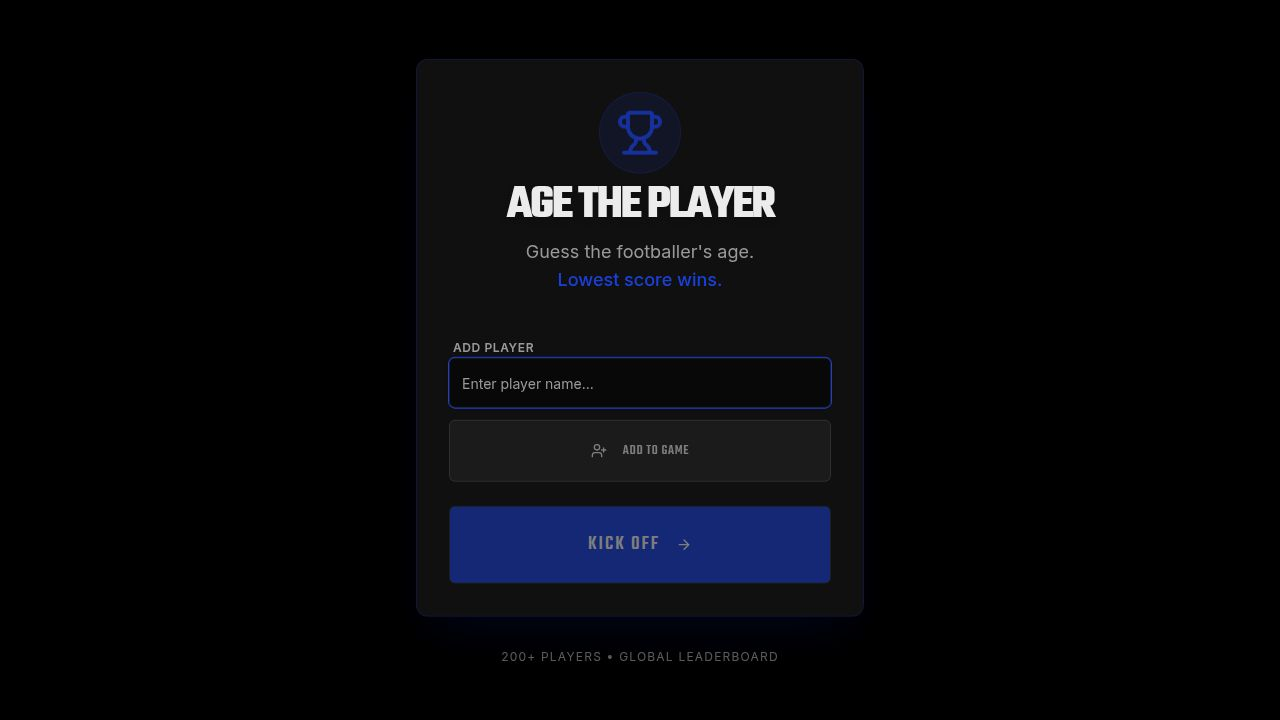
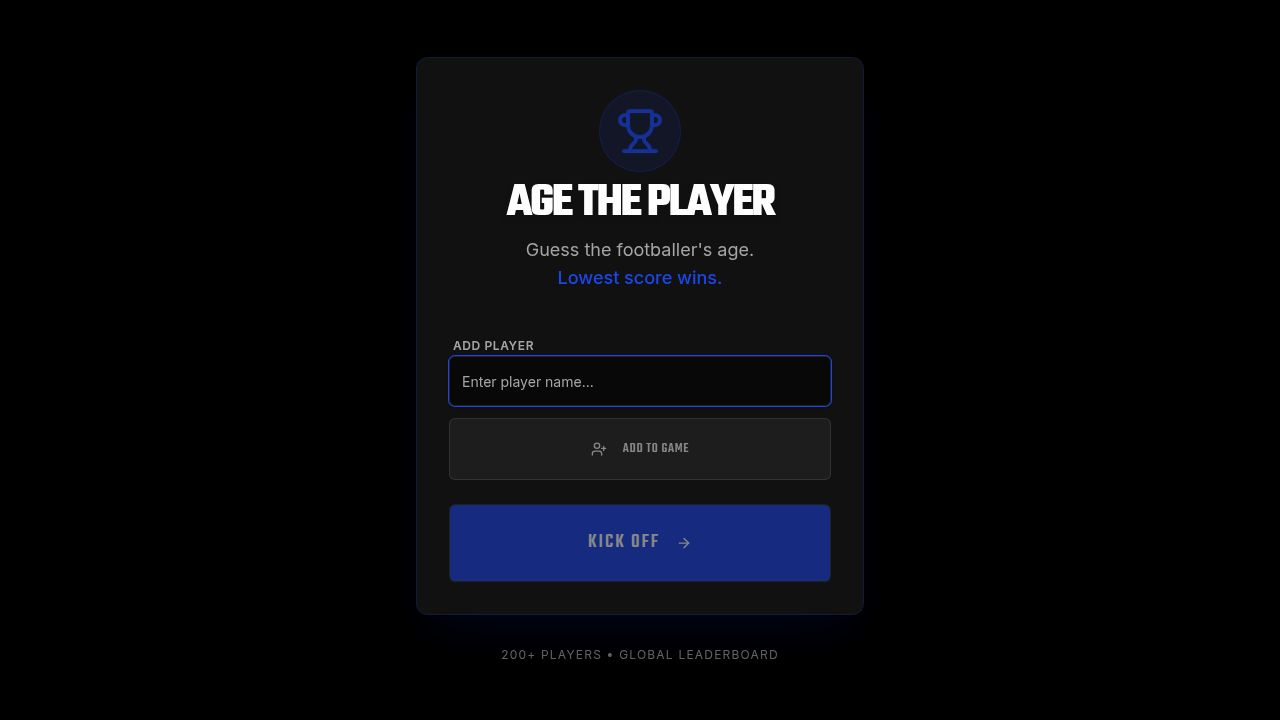
Add quit button, clearer age display, and customizable round selection
Introduce a quit game confirmation modal on the game page and a slider for selecting 1-20 rounds on the home page, while also making the player's actual age more prominent after a guess.

Replit-Commit-Author: Agent
Replit-Commit-Session-Id: cb760f80-8cc4-4e97-91f6-dfe871bbc707
Replit-Commit-Checkpoint-Type: intermediate_checkpoint
Replit-Commit-Event-Id: 43978ad2-92a8-425f-8d2d-94fce74c841e
Replit-Commit-Screenshot-Url: https://storage.googleapis.com/screenshot-production-us-central1/81660c9f-fc11-42ce-8547-a7fb2e67eec6/cb760f80-8cc4-4e97-91f6-dfe871bbc707/nGc5fzC
Replit-Helium-Checkpoint-Created: true

diff --git a/client/src/pages/game.tsx b/client/src/pages/game.tsx
@@ -4,7 +4,7 @@ import { useGameStore } from '@/lib/store';
 import { Button } from '@/components/ui/button';
 import { Slider } from '@/components/ui/slider';
 import { Progress } from '@/components/ui/progress';
-import { CheckCircle2, AlertCircle, ArrowRight, User } from 'lucide-react';
+import { CheckCircle2, AlertCircle, ArrowRight, User, X } from 'lucide-react';
 import { motion, AnimatePresence } from 'framer-motion';
 import confetti from 'canvas-confetti';
 import { triggerHaptic, triggerSuccessHaptic, triggerErrorHaptic } from '@/lib/haptics';
@@ -22,8 +22,17 @@ export default function Game() {
     humanPlayers,
     currentGuessValue,
     setCurrentGuess,
-    playerScores
+    playerScores,
+    resetGame
   } = useGameStore();
+
+  const [showQuitConfirm, setShowQuitConfirm] = useState(false);
+
+  const handleQuit = () => {
+    triggerHaptic('medium');
+    resetGame();
+    setLocation('/');
+  };
 
   const footballer = footballers[currentRound];
   const lastRoundResult = roundResults[roundResults.length - 1];
@@ -79,11 +88,20 @@ export default function Game() {
     <div className="min-h-screen w-full flex flex-col items-center justify-center p-4 relative overflow-hidden bg-black text-foreground">
       
       <div className="absolute top-0 left-0 right-0 p-4 md:p-6 z-20 flex justify-between items-center bg-gradient-to-b from-black to-transparent">
-        <div className="flex items-center gap-1">
-          <span className="text-sm text-white/70 uppercase tracking-wider font-semibold">Round</span>
-          <span className="text-2xl font-display font-bold text-white">
-            {currentRound + 1}/{footballers.length}
-          </span>
+        <div className="flex items-center gap-3">
+          <button
+            onClick={() => setShowQuitConfirm(true)}
+            className="w-8 h-8 rounded-full bg-white/10 hover:bg-white/20 flex items-center justify-center transition-colors"
+            data-testid="button-quit"
+          >
+            <X className="w-4 h-4 text-white/70" />
+          </button>
+          <div className="flex items-center gap-1">
+            <span className="text-sm text-white/70 uppercase tracking-wider font-semibold">Round</span>
+            <span className="text-2xl font-display font-bold text-white">
+              {currentRound + 1}/{footballers.length}
+            </span>
+          </div>
         </div>
         <div className="flex items-center gap-3">
           {humanPlayers.map(player => (
@@ -96,6 +114,37 @@ export default function Game() {
           ))}
         </div>
       </div>
+
+      {showQuitConfirm && (
+        <div className="fixed inset-0 z-50 flex items-center justify-center bg-black/80 backdrop-blur-sm p-4">
+          <motion.div
+            initial={{ opacity: 0, scale: 0.9 }}
+            animate={{ opacity: 1, scale: 1 }}
+            className="bg-card border border-white/10 rounded-xl p-6 max-w-sm w-full text-center space-y-4"
+          >
+            <h3 className="text-xl font-display font-bold text-white uppercase">Quit Game?</h3>
+            <p className="text-white/60">Your progress will be lost.</p>
+            <div className="flex gap-3">
+              <Button
+                variant="outline"
+                className="flex-1"
+                onClick={() => setShowQuitConfirm(false)}
+                data-testid="button-cancel-quit"
+              >
+                Cancel
+              </Button>
+              <Button
+                variant="destructive"
+                className="flex-1"
+                onClick={handleQuit}
+                data-testid="button-confirm-quit"
+              >
+                Quit
+              </Button>
+            </div>
+          </motion.div>
+        </div>
+      )}
 
       <Progress value={((currentRound) / footballers.length) * 100} className="absolute top-0 left-0 right-0 h-1 z-30 rounded-none bg-white/10" />
 
@@ -211,9 +260,11 @@ export default function Game() {
             >
                <div className="text-center space-y-4 relative z-10">
                  <div className="flex flex-col items-center mb-4">
-                    <h3 className="text-2xl font-display uppercase tracking-wider text-white">
-                      {footballer.name} is {lastRoundResult?.actualAge} years old!
-                    </h3>
+                    <p className="text-sm text-white/60 uppercase tracking-wider mb-2">{footballer.name} is</p>
+                    <div className="text-6xl font-display font-bold text-primary mb-1" data-testid="text-actual-age">
+                      {lastRoundResult?.actualAge}
+                    </div>
+                    <p className="text-lg text-white/80 uppercase tracking-wider">years old</p>
                  </div>
 
                  <div className="space-y-3 py-4 border-y border-white/5">

diff --git a/client/src/pages/home.tsx b/client/src/pages/home.tsx
@@ -5,13 +5,15 @@ import { getRandomPlayers } from '@/lib/api';
 import { Button } from '@/components/ui/button';
 import { Input } from '@/components/ui/input';
 import { Card } from '@/components/ui/card';
-import { Trophy, ArrowRight, UserPlus, X, Users } from 'lucide-react';
+import { Slider } from '@/components/ui/slider';
+import { Trophy, ArrowRight, UserPlus, X, Users, Hash } from 'lucide-react';
 import { motion, AnimatePresence } from 'framer-motion';
 import { toast } from 'sonner';
 
 export default function Home() {
   const [name, setName] = useState('');
   const [isLoading, setIsLoading] = useState(false);
+  const [numRounds, setNumRounds] = useState(10);
   const [, setLocation] = useLocation();
   const { humanPlayers, addPlayer, removePlayer, startGame, setFootballers } = useGameStore();
 
@@ -32,7 +34,7 @@ export default function Home() {
     setIsLoading(true);
     try {
       startGame();
-      const players = await getRandomPlayers(10);
+      const players = await getRandomPlayers(numRounds);
       if (!players || players.length === 0) {
         throw new Error('No players available');
       }
@@ -134,6 +136,32 @@ export default function Home() {
                 </div>
               </div>
             )}
+
+            <div className="w-full space-y-3">
+              <div className="flex items-center justify-between">
+                <div className="flex items-center gap-2">
+                  <Hash className="w-4 h-4 text-primary" />
+                  <span className="text-xs font-semibold uppercase tracking-wider text-muted-foreground">
+                    Number of Rounds
+                  </span>
+                </div>
+                <span className="text-2xl font-display font-bold text-white">{numRounds}</span>
+              </div>
+              <Slider
+                value={[numRounds]}
+                onValueChange={(vals) => setNumRounds(vals[0])}
+                min={1}
+                max={20}
+                step={1}
+                className="py-2"
+                data-testid="slider-rounds"
+                disabled={isLoading}
+              />
+              <div className="flex justify-between text-xs text-muted-foreground">
+                <span>1</span>
+                <span>20</span>
+              </div>
+            </div>
 
             <Button 
               onClick={handleKickOff}
